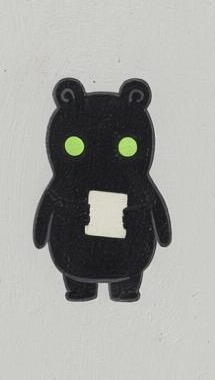
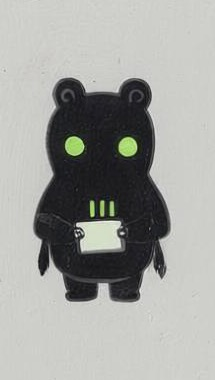
paint with care, and chain the edits
Accessories repainted as made objects rather than shapes: a satchel of waxed
canvas hanging at the hip on a strap across the chest with a dull buckle and
real weight, a lantern with a handle the fingers curl around, a work belt with
tools on loops, and the card resized and dropped to the belly so the eyes stay
clear. Digital tells forbidden explicitly (gradients, gloss, vector edges,
drop shadows). And a second finding: one edit cannot add two things — it honours
one and silently drops the other — so combinations are CHAINED, adding the
satchel to the card version, each edit doing exactly one job.

diff --git a/Waystone_World_v0.1.md b/Waystone_World_v0.1.md
@@ -431,6 +431,15 @@ where storybook needs to breathe. Corrected:
   Cute by WEIGHT AND STANCE, never by an oversized head. Chibi (big head, big
   eyes, top-heavy) is the cheap route and is wrong; so is squat (head/body
   distinction collapsed).
+  **PAINT WITH CARE, AND CHAIN THE EDITS.** Two refinements learned building the
+  bench: (a) describe an accessory as a MADE OBJECT — its material, construction,
+  how it hangs, how the hands hold it — and forbid the digital tells (gradients,
+  gloss, vector-sharp edges, drop shadows); a "satchel" gives a grey blob, "a
+  small satchel of dark waxed canvas hanging at the hip on a strap across the
+  chest, soft flap, dull buckle, hanging with weight" gives a bag. State SIZE and
+  POSITION explicitly or objects balloon over the face. (b) NEVER ask one edit
+  for two additions — the model honours one and drops the other. CHAIN instead:
+  edit the card version to add the satchel, so every edit does exactly one job.
   **VARIANTS ARE PAINTED, NEVER PASTED.** Vector accessories drawn over a painted
   body always read wrong — flat shapes on brushed paint. The method instead:
   EDIT THE CANON SHEET once per combination ("show the first creature holding a
